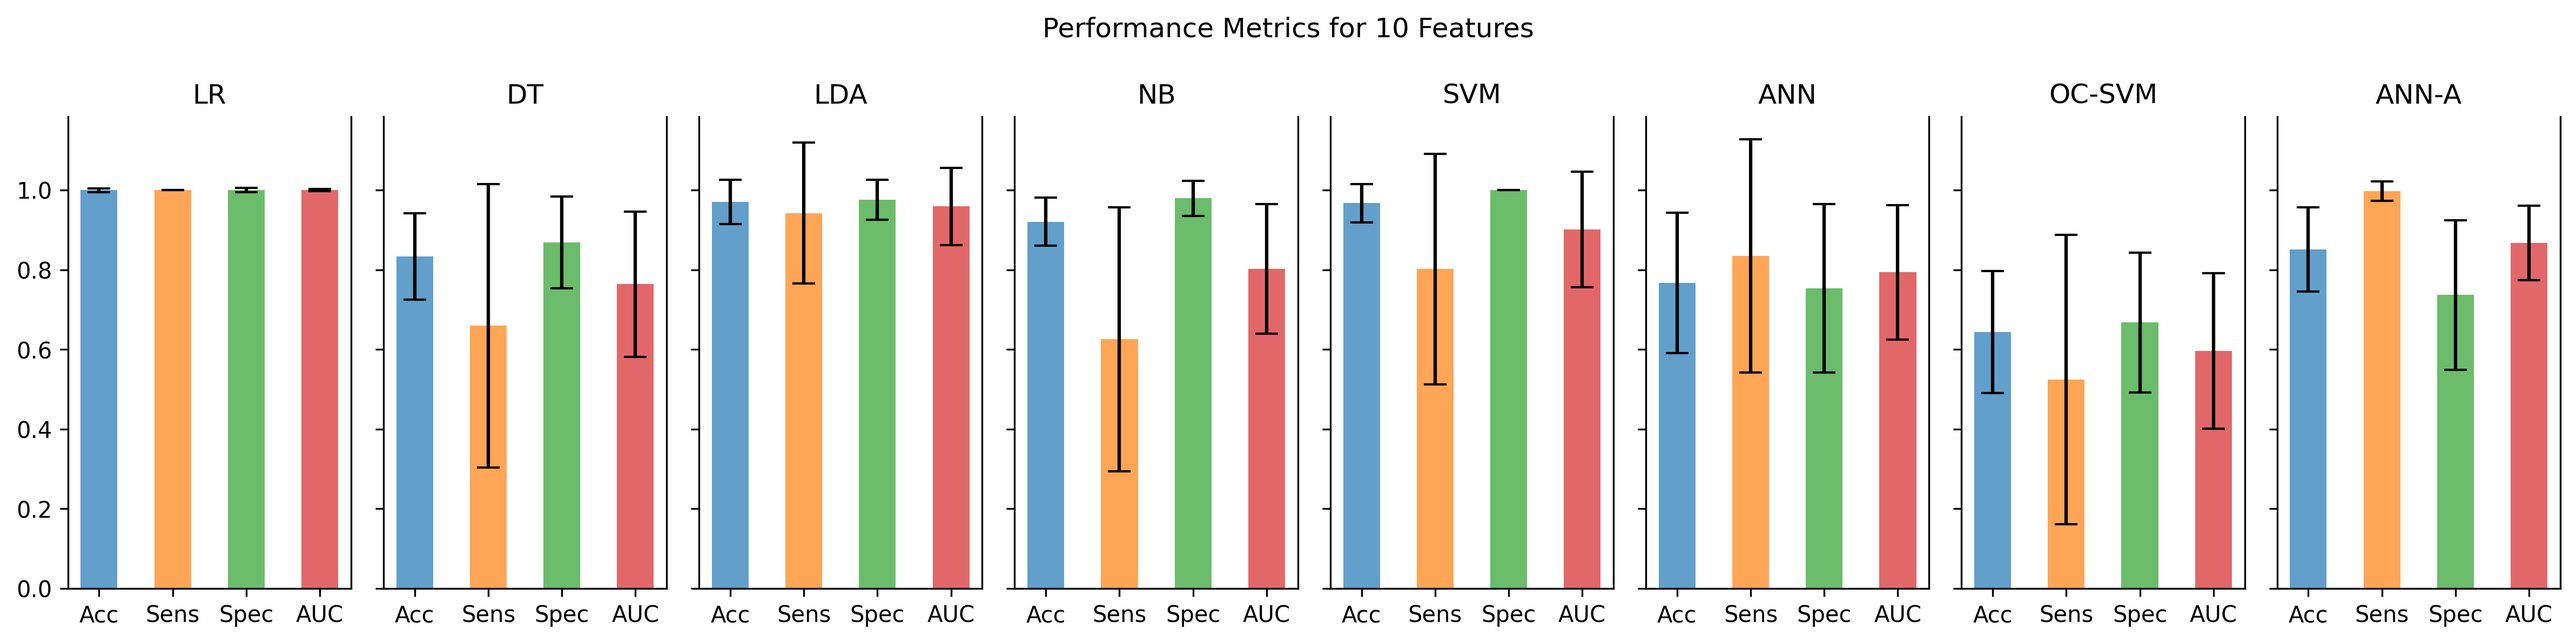
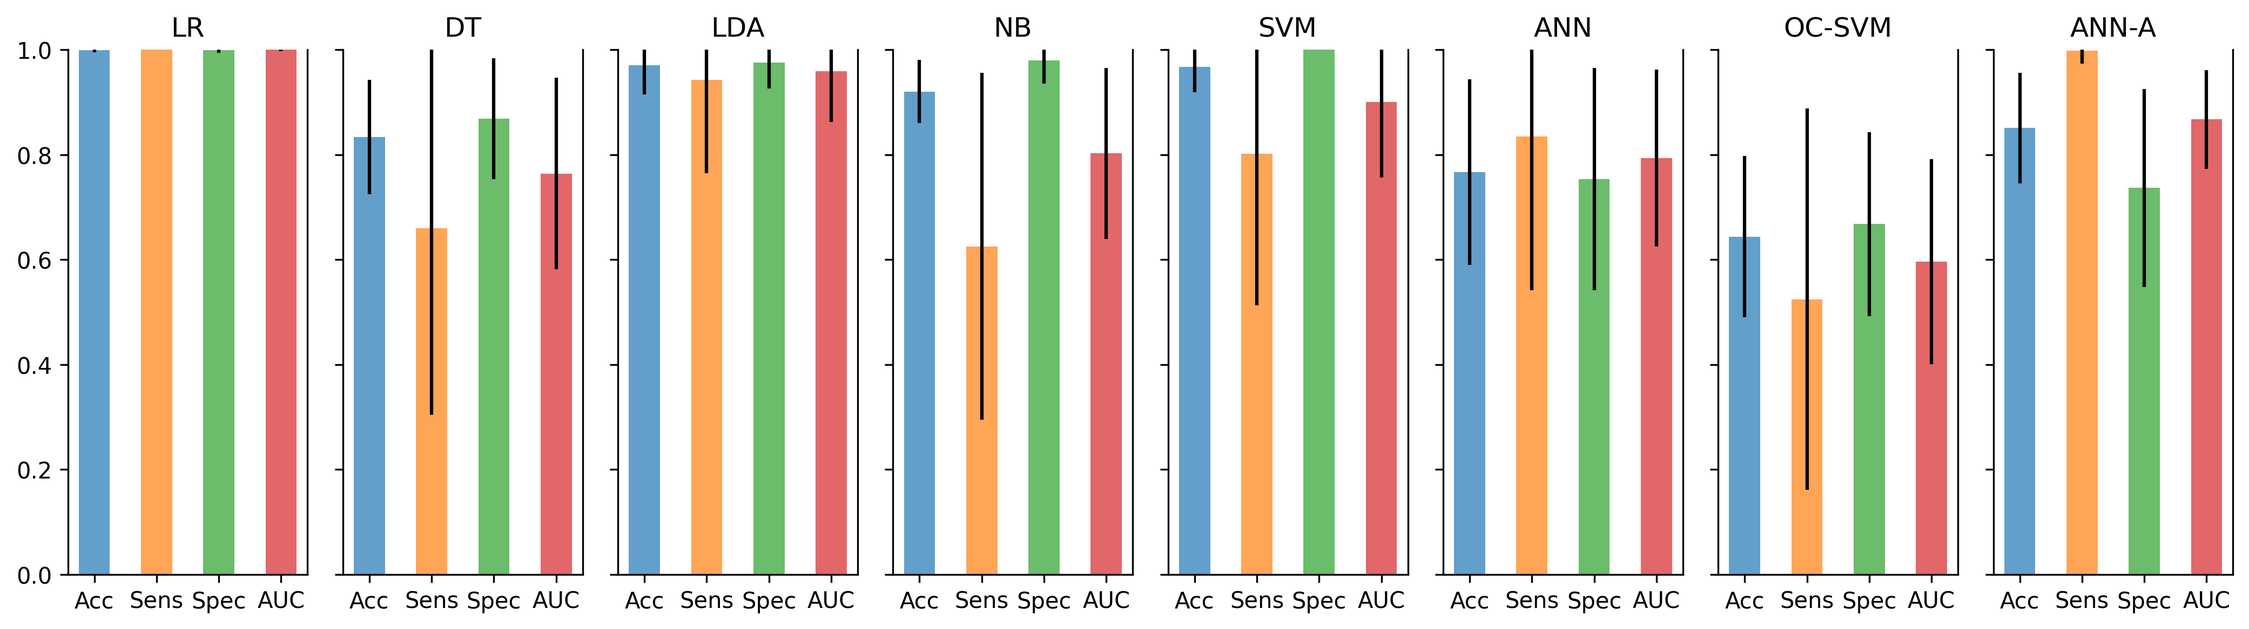
Boxplots + bar charts update

diff --git a/Fig5_results_bar_charts.py b/Fig5_results_bar_charts.py
@@ -30,17 +30,16 @@ def plot_barchart(ax, data, title):
     mean_values = [np.mean(metric) for metric in data]
     std_values = [np.std(metric) for metric in data]
 
-    # Limit std values to not exceed 1.0
-    std_values = [min(std, 1.0) for std in std_values]
-
     # Create bar chart with error bars
     bar_positions = np.arange(len(mean_values))
     for pos, mean, yerr, color in zip(bar_positions, mean_values, std_values, colors):
-        ax.bar(pos, mean, yerr=yerr, align='center', alpha=0.7, color=color, ecolor='black', capsize=5, width=0.5)
+        ax.bar(pos, mean, align='center', alpha=0.7, color=color, ecolor='black', capsize=5, width=0.5)
+        ax.errorbar(pos, mean, yerr=yerr, fmt='none', ecolor='black', capsize=None)
 
     # Set chart title and labels
     ax.set_title(title)
     ax.set_xticks(bar_positions)
+    ax.set_ylim(0, 1.0)
     ax.set_xticklabels(['Acc', 'Sens', 'Spec', 'AUC'])
 
     # Remove top border of subplot
@@ -65,14 +64,16 @@ for number_of_features in datasets:
          4: 'SVM', 5: 'ANN',
          6: 'OC-SVM', 7: 'ANN-A'}
 
-    fig, axs = plt.subplots(1, 8, figsize=(16, 4), constrained_layout=True, sharex=True, sharey=True)
-    fig.suptitle(f'Performance Metrics for {number_of_features} Features')
+    fig, axs = plt.subplots(1, 8, figsize=(14, 4), constrained_layout=True, sharex=True, sharey=True)
+    #fig.suptitle(f'Performance Metrics for {number_of_features} Features')
 
     for i, el in enumerate(list([0, 1, 2, 3, 4, 5, 6, 7])):
         DBS_outcome_prediction_accuracy( accs[el], sens[el], spes[el], aucs[el], names[el])
         
         # Plot bar charts
+        #for 2x4
         #ax = axs[i//4, i%4]
+        #for 1x8
         ax = axs[i]
         plot_barchart(ax, [accs[el], sens[el], spes[el], aucs[el]], names[el])
     

diff --git a/Fig2_radiomic_features_boxplots.py b/Fig2_radiomic_features_boxplots.py
@@ -17,7 +17,7 @@ df = pd.read_csv(datafile, index_col=0)
 fig, axes = plt.subplots(5,4, figsize=(15, 20))
 
 for i,el in enumerate(list(df.columns.values)[:-1]):
-    a = df.boxplot(el, by='STN-DBS delirium (1-yes, 2-no)', ax=axes.flatten()[i], patch_artist=True, boxprops=dict(facecolor='skyblue', color='black', linewidth=2), medianprops=dict(color='orange', linewidth=2))
+    a = df.boxplot(el, by='STN-DBS delirium (1-yes, 2-no)', ax=axes.flatten()[i], patch_artist=True, boxprops=dict(facecolor='skyblue', color='black', linewidth=2), medianprops=dict(color='black', linewidth=3))
     a.grid('on', which='major', linewidth=1)
     title = a.set_title("\n".join(wrap(el, 30)))
     title.set_y(1.05)
